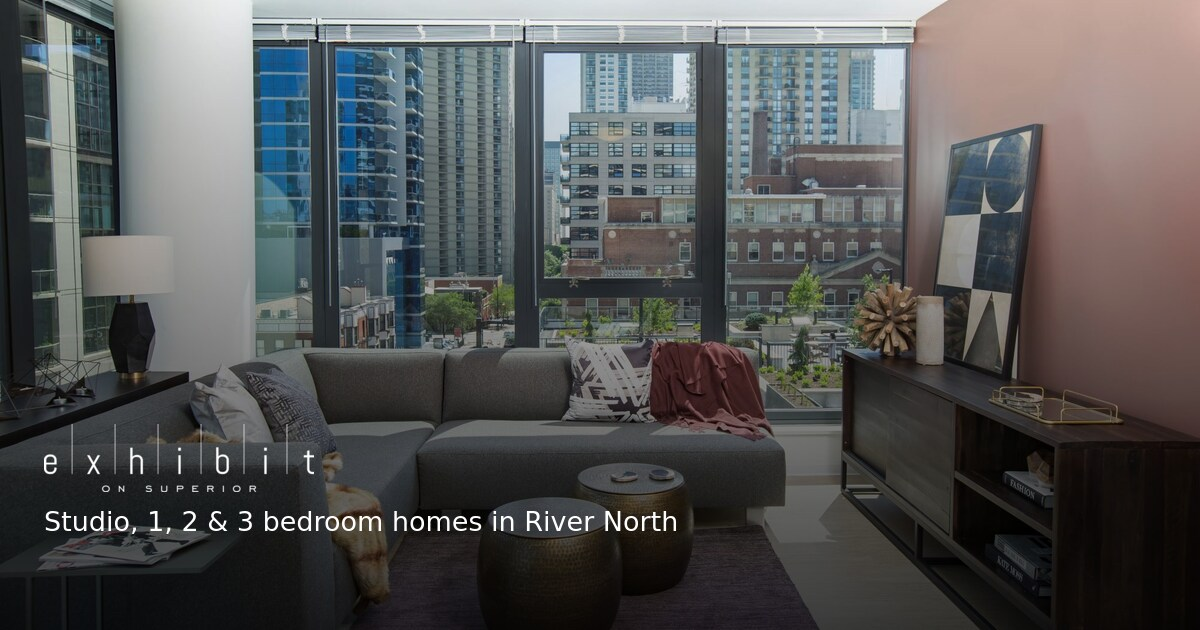
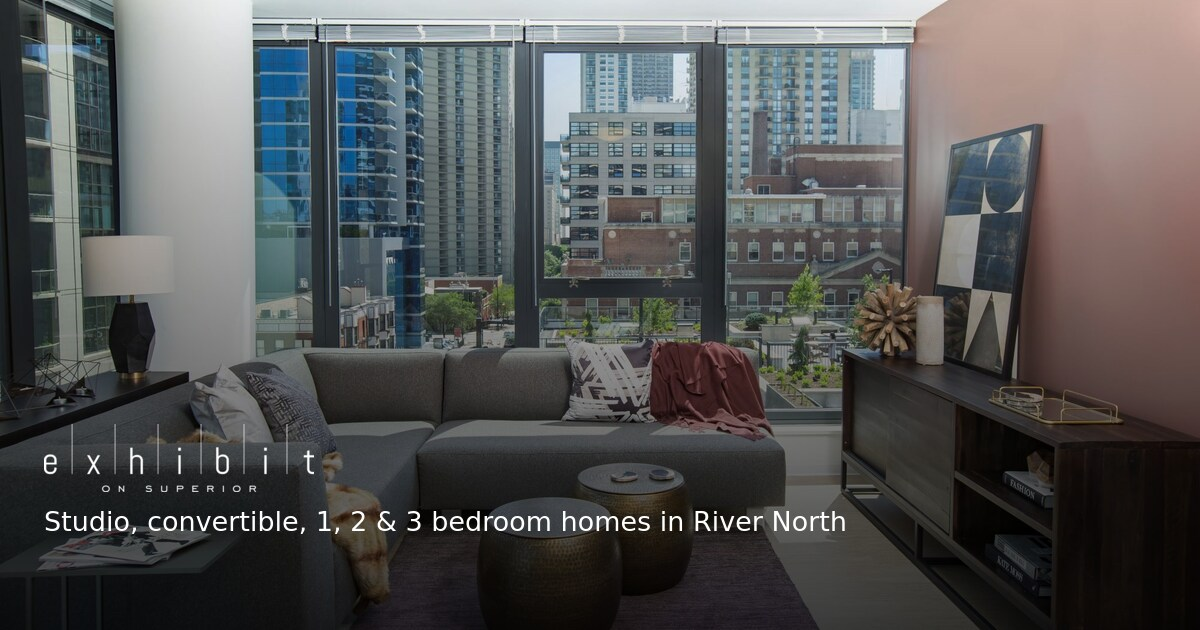
Regenerate Floor Plans social card with convertible unit type
Replit-Task-Id: a55a8752-4c9e-4a96-8478-b4e0522037ed
Replit-Merge-Attempt: MergeTask:a55a8752-4c9e-4a96-8478-b4e0522037ed:1:3c7eb6af

Changed region(s): [[0.1233, 0.8143, 0.7092, 0.8444]]

diff --git a/artifacts/exhibit-on-superior/src/data/seo.ts b/artifacts/exhibit-on-superior/src/data/seo.ts
@@ -57,7 +57,7 @@ export const SITE_LAUNCH_DATE = '2025-01-01';
  * fresh image. (v2: 2026-07 regeneration of nine stale cards, notably
  * reviews.jpg. v3: default og-card.jpg brought under the same guard.)
  */
-export const OG_CARD_VERSION = 8;
+export const OG_CARD_VERSION = 9;
 
 /** Site-wide fallback share card, cache-busted like the per-page cards. */
 export const DEFAULT_OG_IMAGE = `${SITE_URL}/images/og-card.jpg?v=${OG_CARD_VERSION}`;
